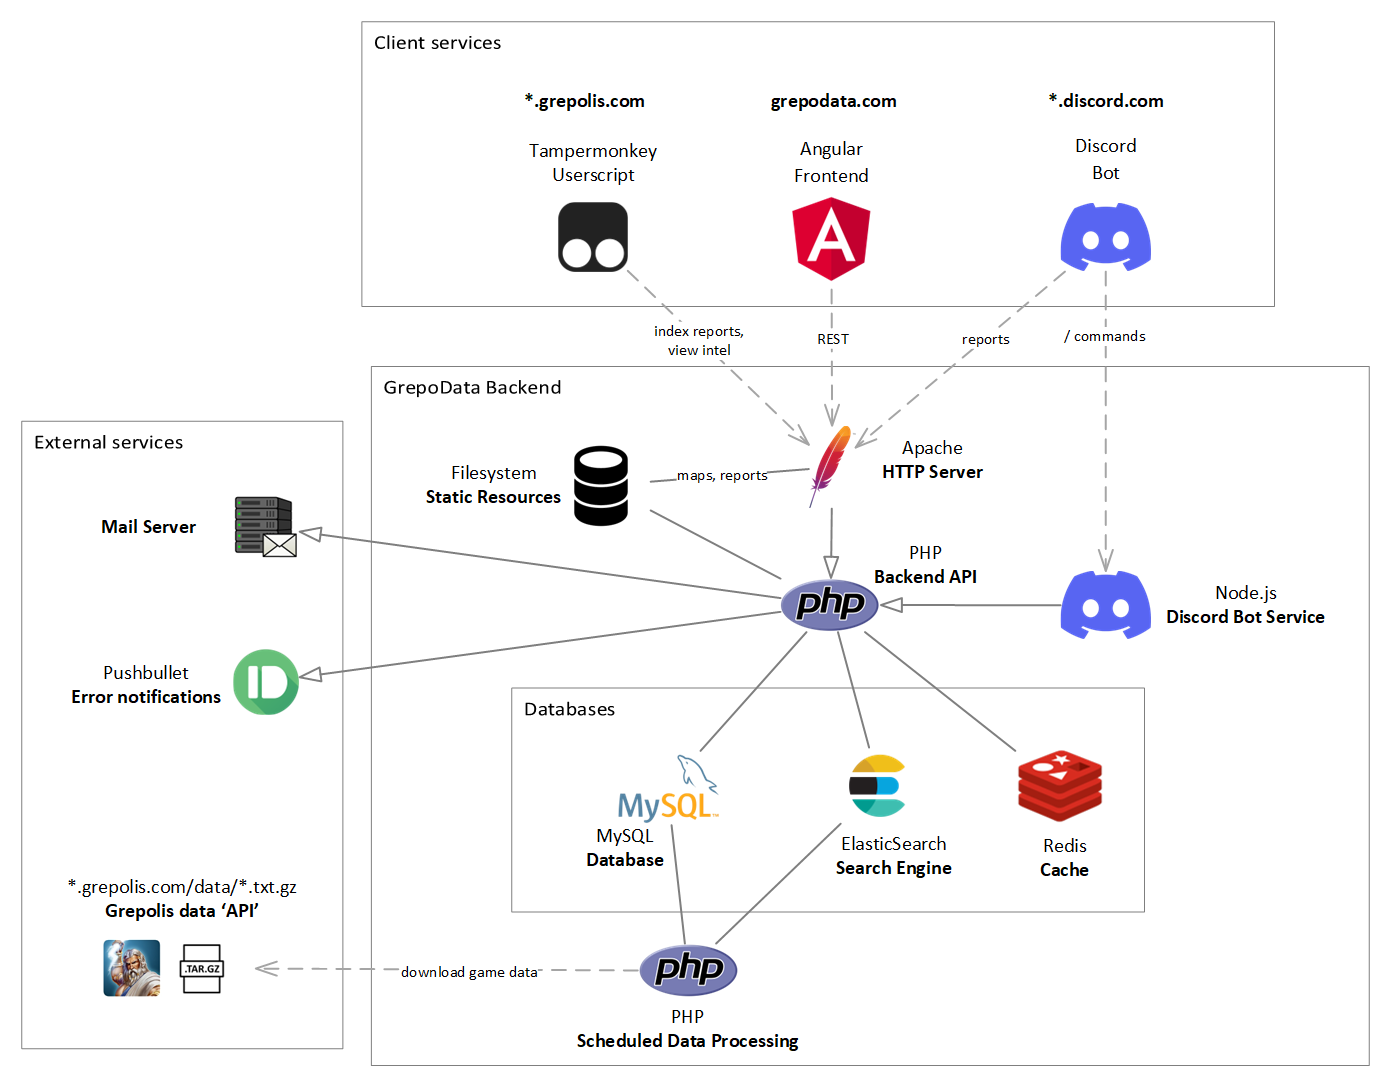
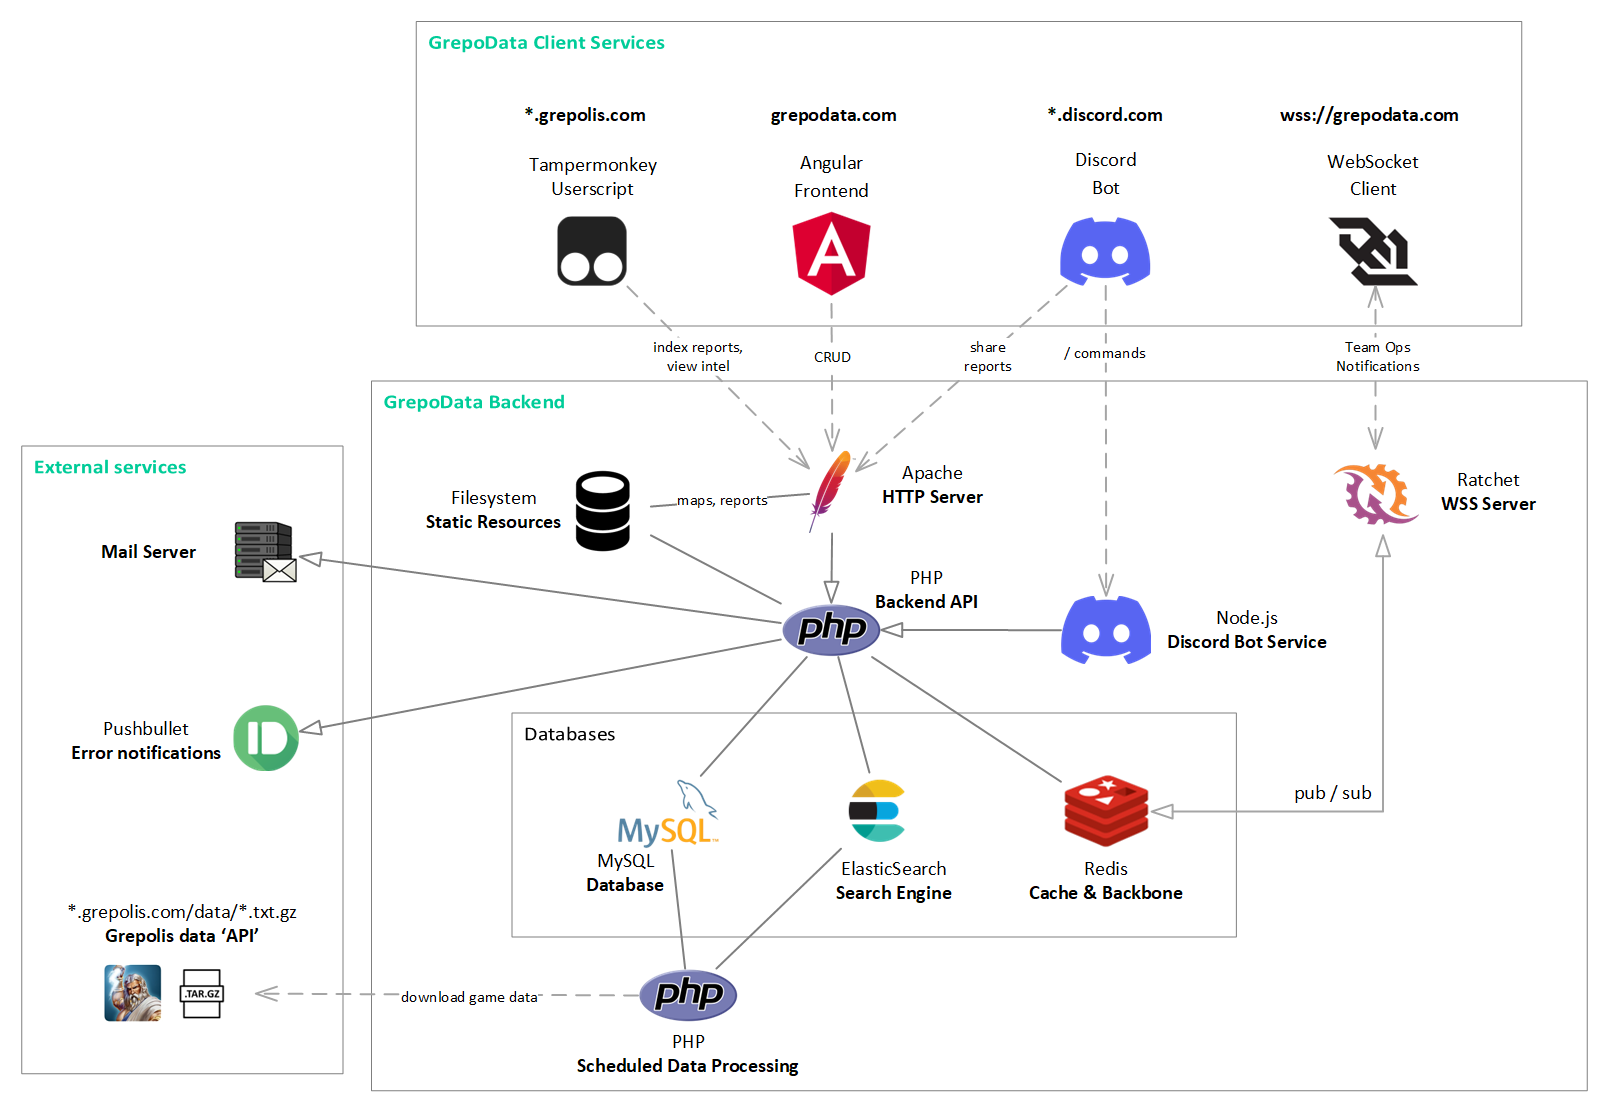
updated blog

diff --git a/src/app/blog/blog.component.html b/src/app/blog/blog.component.html
@@ -7,14 +7,13 @@
           <h4 (click)="scroll(Introduction)">Introduction</h4>
           <h4 (click)="scroll(Overview)">Overview</h4>
           <h4 (click)="scroll(Clients)">Client Services</h4>
-            <h5 (click)="scroll(Frontend)">Angular Frontend</h5>
-              <h6 (click)="scroll(AuthFront)">Authentication</h6>
-            <h5 (click)="scroll(Discord)">Discord Bot</h5>
+            <h5 (click)="scroll(Frontend)">Frontend</h5>
             <h5 (click)="scroll(Userscript)">Userscript</h5>
-              <h6 (click)="scroll(Authenticate)">Authentication</h6>
+            <h5 (click)="scroll(Websocket)">WebSocket</h5>
+            <h5 (click)="scroll(Discord)">Discord Bot</h5>
             <h5 (click)="scroll(api)">Indexer API</h5>
           <h4 (click)="scroll(Data)">Data Processing</h4>
-            <h5 (click)="scroll(GameData)">Grepolis Game Data</h5>
+            <h5 (click)="scroll(GameData)">Game Data</h5>
             <h5 (click)="scroll(InternalData)">Internal Data</h5>
           <h4 (click)="scroll(Databases)">Databases</h4>
             <h5 (click)="scroll(MySQL)">MySQL</h5>
@@ -24,54 +23,49 @@
       </div>
       <div class="col-md-12 col-lg-8 text-center">
         <br/>
-        <h1>Blog: GrepoData Architecture</h1><br/>
-        <h6 class="gd-primary">September 2021 by Camiel Kerkhofs</h6>
+        <h1>GrepoData Architecture</h1><br/>
+        <h6 class="gd-primary">By Camiel Kerkhofs</h6>
 
         <h4 #Introduction style="text-align: left;">Introduction</h4>
-        <h5 align="justify">Since the new indexer version went live in April, we received some questions about how our website works, specifically in regards to authentication.
-          For the sake of transparency and to answer these questions we wrote this blogpost to discuss some of the architecture choices we made.
-          In terms of compute, we are currently running all of this on a single VM with 4 vCPU's and 8 GB RAM.
+        <h5 align="justify">After we released the new indexer version, we received many questions about how our website works, with a particular focus on authentication and privacy.
+          In the spirit of transparency and to address these questions, we wrote this blog to explain the architectural decisions guiding our platform.
+          Currently, our stack operates on a single virtual machine with only 4 vCPUs and 8 GB RAM. We implemented many optimizations to be able to handle the computational demands of our dynamic user base exceeding 20,000 unique users monthly.
         </h5>
 
         <br/>
+        <hr>
         <h4 #Overview style="text-align: left">Architecture Overview</h4>
         <h5 align="justify">
-          Below is an overview of the complete GrepoData architecture. We serve 3 client services. The in-game userscript and the Angular frontend both communicate with our PHP backend. The Discord bot requires a dedicated bot service that runs 24/7.
-          We use a MySQL database for our relational data, an Elasticsearch node to enable our search functionality and a Redis in-memory cache to reduce database load for heavy queries.
-          In the rest of this blog we will explain how we use each of these tools to deliver GrepoData to our 20.000 unique monthly users.
+          Below is an overview of the complete GrepoData architecture. We serve 4 client services. The in-game userscript and the Angular frontend both communicate with our PHP REST API.
+          Both our WebSocket server and the Discord bot require a dedicated backend service.
+          We use a MySQL database for our relational data, an Elasticsearch node to enable our search functionality and a Redis instance as a cache and pub/sub communication backbone.
         </h5>
 
         <div class="">
           <img style="max-width: 100%; margin: auto;" src="assets/images/architecture.png">
         </div>
 
-        <h4 #Clients style="text-align: left">Client Services</h4>
+        <br/>
+        <br/>
+        <h4 #Clients style="text-align: left">Client Services & Authentication</h4>
         <h5 align="justify">
 
         </h5>
 
-
-        <br/>
-        <h5 #Frontend class="subtitle" style="text-align: left">Angular Frontend</h5>
+        <hr>
+        <h5 #Frontend class="subtitle" style="text-align: left">Angular Frontend <a class="source-link" href="https://github.com/GrepoDataTools/grepodata-frontend" target="_blank">(View Source)</a></h5>
         <h5 align="justify">
           The frontend being served at https://grepodata.com is an Angular 11 application. Angular provides us with a modular architecture, two-way data binding, dependency injection, improved performance, and cross-platform development capabilities.
           There are still some big items that we would like to add to our Angular app such as internationalisation and lazy loading to improve the speed of our application but unfortunately that would require a rewrite of a large part of the frontend code.
         </h5>
-        <h6 #AuthFront class="subtitle" style="text-align: left">Authentication</h6>
+        <h6 #AuthFront class="subtitle" style="text-align: left">Frontend Authentication</h6>
         <h5 align="justify">
           The GrepoData indexer tool is protected by a user sign in. Anybody is free to create an account. We use a JSON Web Tokens (JWT) for authentication. JWT is an open standard (RFC 7519) that defines a compact and self-contained way for securely transmitting information between parties as a JSON object. This information can be verified and trusted because it is digitally signed.
           Our JWTs are signed by the GrepoData backend using a secret. All sensitive user data such as the password is stored using industry best practices. We never store such data as plain text.
         </h5>
-        <br/>
-        <h5 #Discord class="subtitle" style="text-align: left">Discord Bot</h5>
-        <h5 align="justify">
-          The Discord bot is a bot service that users can add to their Discord servers. We wrote the bot using the popular discord.js library. Currently our bot is serving in 3000 Discord servers with a total of over 50.000 users.
-          This is challenge because if your bot is in more than 2500 servers, the server side client needs to be sharded.
-          We are currently using the discord.js <a href="https://discordjs.guide/sharding/#how-does-sharding-work" target="_blank">ShardingManager</a> to run multiple shards on the same machine.
-          A list of available commands can be found here: <a href="https://grepodata.com/discord" target="_blank">grepodata.com/discord</a>.
-        </h5>
 
         <br/>
+        <hr>
         <h5 #Userscript class="subtitle" style="text-align: left">In-Game Userscript <a class="source-link" href="https://github.com/GrepoDataTools/grepodata-backend/tree/master/Software/Application/Indexer" target="_blank">(View Source)</a></h5>
         <h5 align="justify">
           The userscript itself is only used as an injection trigger. Whenever the user loads the game, the userscript will be triggered due to the matching url (*.grepolis.com). The only task of the Userscript is then to inject a .js and .css file that contain the code to run the in-game functionality of our City Indexer tool.
@@ -82,6 +76,8 @@
             <li><strong>Browsing Intel:</strong> Users can browse town intel and notes for each town by doing a GET request to our backend.</li>
             <li><strong>Adding Notes:</strong> Notes can be added via a POST request to the backend.</li>
             <li><strong>Forum Reactions:</strong> Users can react to forum posts and see the reactions of teammates.</li>
+            <li><strong>Sharing Commands:</strong> Users can share their command overview and attack planner with their teammates.</li>
+            <li><strong>Push Notifications:</strong> Users are notified when their teammates share commands.</li>
           </ul>
         </h5>
 
@@ -112,14 +108,57 @@
         <br/>
         <br/>
 
+        <br/>
+        <hr>
+
+        <h5 #Websocket class="subtitle" style="text-align: left">WebSocket <a class="source-link" href="https://github.com/GrepoDataTools/grepodata-websocket" target="_blank">(View Source)</a></h5>
+        <h5 align="justify">
+          The GrepoData WSS service allows us to communicate in real-time with our connected clients.
+          Under normal conditions, our WSS service has between 1000 and 2000 concurrent connections.
+          The connection with the WSS server is managed by the GrepoData in-game userscript.
+          When a message is published via the Redis backbone, the WSS server will push the message to the respective clients.
+        </h5>
+        <h6 #AuthWSS class="subtitle" style="text-align: left">WebSocket Authentication Flow</h6>
+        <h5 align="justify">
+          Each new client connection must first be authenticated before we can subscribe the connection to the correct user/team topics.
+          The authentication flow is as follows:
+          <ul>
+            <li><strong>(1):</strong> If an authenticated user opens the game, the userscript will retrieve a <i>websocket_token</i> from our backend. This token is stored in Redis and is linked to the current user and client.</li>
+            <li><strong>(2):</strong> The userscript will then attempt to connect to the WSS server available at <i>wss://grepodata.com:8443</i>.</li>
+            <li><strong>(3):</strong> Once the connection is established, the userscript will send the <i>websocket_token</i> from step 1.</li>
+            <li><strong>(4):</strong> The WSS server receives the <i>websocket_token</i> and checks it validity against the token stored in Redis in step 1.</li>
+            <li><strong>(5):</strong> If the token was valid, the connection is subscribed to the user and team topics as identified via Redis. If the token is not valid, the connection is closed.</li>
+            <li><strong>(6):</strong> We use a hashmap to store connection subscriptions. If a message is received for team X, it is propagated to all connections that subscribed to team X</li>
+          </ul>
+        </h5>
+
+        <div class="">
+          <img style="max-width: 100%; margin: auto;" src="assets/images/wss_auth.png">
+        </div>
+
+        <br/>
+        <hr>
+        <h5 #Discord class="subtitle" style="text-align: left">Discord Bot <a class="source-link" href="https://github.com/GrepoDataTools/grepodata-discord" target="_blank">(View Source)</a></h5>
+        <h5 align="justify">
+          The Discord bot is a bot service that users can add to their Discord servers. We wrote the bot using the popular discord.js library. Currently our bot is serving in 3000 Discord servers with a total of over 50.000 users.
+          This is challenge because if your bot is in more than 2500 servers, the server side client needs to be sharded.
+          We are currently using the discord.js <a href="https://discordjs.guide/sharding/#how-does-sharding-work" target="_blank">ShardingManager</a> to run multiple shards on the same machine.
+          A list of available commands can be found here: <a href="https://grepodata.com/discord" target="_blank">grepodata.com/discord</a>.
+          Our Discord Bot only serves public data and therefore does not require authentication.
+        </h5>
+
+        <br/>
+        <hr>
         <h5 #api class="subtitle" style="text-align: left">GrepoData Indexer API</h5>
         <h5 align="justify">
-          The public GrepoData API provides programmatic access to intel collected by the authenticated user. We also provide authentication endpoints.
-          Advanced users can retrieve intel for towns, players or alliances. Our authentication service ensures that users can only retrieve intel that was collected by themselces or their teammates.
+          The GrepoData Indexer API provides programmatic access to intel collected by the authenticated user. We also provide authentication endpoints.
+          Advanced users can retrieve intel for towns, players or alliances. Our authentication service ensures that users can only retrieve intel that was collected by themselves or their teammates.
           <br/>The API documentation is available here (account required): <a href="https://grepodata.com/profile/api" target="_blank">grepodata.com/profile/api</a>
         </h5>
         <br/>
 
+        <br/>
+        <hr>
         <h4 #Data style="text-align: left">Scheduled Data Processing</h4>
         <h5 align="justify">
           In total, we use 20 data processing jobs written in PHP. Each job is on a custom cron schedule. We differentiate between jobs that sync game data and jobs that clean/process our internal data.
@@ -158,22 +197,30 @@
         <br/>
         <br/>
         <h4 #Databases style="text-align: left">Databases</h4>
+        <hr>
         <h5 #MySQL class="subtitle" style="text-align: left">MySQL</h5>
         <h5 align="justify">
           MySQL is used to store most of our data. Due to the large amount of lookup queries, we make sure to add indexes wherever required. In order to limit the number of inserts, we only update/create records if their values have changed. This also allows our scheduled data processing jobs to be much more efficient. To achieve this, we simply keep a local copy of the game data in csv format. When new data is pulled, we first compare it against the previous data dump, and only persist records to the database if there has been a change.
         </h5>
         <br/>
+        <hr>
         <h5 #Elasticsearch class="subtitle" style="text-align: left">Elasticsearch</h5>
         <h5 align="justify">
           Elasticsearch is a search engine based on Lucene. GrepoData uses Elasticsearch to index player and alliance names. This allows us to query half a million names within milliseconds. We use the fuzzy matching algorithm to return results even when the user makes a spelling mistake. The aggregation feature also comes in handy to allow the user to filter based on country and server. A custom scoring function was created to promote results that are on the same game server as the user.
           <br/>We also use our Elasticsearch node to host the attack & defend diffs. Whenever a player gains an attack or defend point, we store this event as a 'diff'. We use the powerful aggregation features of Elasticsearch to quickly aggregate millions of diffs to render the diffs shown on our daily scoreboard.
         </h5>
         <br/>
+        <hr>
         <h5 #Redis class="subtitle" style="text-align: left">Redis</h5>
         <h5 align="justify">
-          Redis is an in-memory key-value store. We monitor our SQL database for heavy queries and if their functionality allows for cached responses then we will use Redis to store the results of a query for a limited time.
-          Mostly we use this approach for requests related to our city indexer where we have some larger queries that aggregate user intel. For example, we cache the alliance and player intelligence pages for 5 minutes. Changes to the underlying data are infrequent and of little consequence while these queries may sometimes take 5 to 10 seconds if the user has collected a lot of intelligence.
-          In addition to being used as a cache, we also use Redis to implement our rate limiter. The PHP backend tracks rate limited resources using Redis. If the rate limit is exceeded, our service can respond appropriately.
+          Redis is an in-memory key-value store. We use a Redis instance to support 3 key backend functionalities:
+          <ul>
+            <li>We monitor our SQL database for heavy queries and if their functionality allows for <strong>cached responses</strong> then we will use Redis to store the results of a query for a limited time.
+              Mostly we use this approach for requests related to our city indexer where we have some larger queries that aggregate user intel. For example, we cache the alliance and player intelligence pages for 5 minutes. Changes to the underlying data are infrequent and of little consequence while these queries may sometimes take 5 to 10 seconds if the user has collected a lot of intelligence.</li>
+            <li>In addition to being used as a cache, we also use Redis to implement our <strong>rate limiter</strong>. The PHP backend tracks rate limited resources using Redis. If the rate limit is exceeded, our service can respond appropriately.</li>
+            <li>Finally, we also use Redis <strong>pub/sub</strong> topics as a backbone communication channel. This allows our PHP backend to communicate in real-time with our Ratchet WSS server.</li>
+          </ul>
+
         </h5>
         <br/>
 

diff --git a/src/app/homepage/homepage.component.html b/src/app/homepage/homepage.component.html
@@ -267,6 +267,7 @@
 <div class="footer text-center">
   <div class="container">
     <div class="row">
+
       <div class="col-xs-12 col-sm-12 col-md-8 col-lg-8 disclaimer">
         <!--<strong>Copyright notices: </strong>&nbsp;-->
         Grepolis is a browser game by InnoGames GmbH. This is an unofficial 3rd party site
@@ -282,6 +283,14 @@
         &nbsp; | &nbsp;
         <a class="a-link-dialog" routerLink="/analytics">Statistics</a>
       </div>
+
+      <br/>
+      <br/>
+      <br/>
+      <br/>
+
+      powered by <a class="a-link" href="https://camiel.dev" target="_blank">camiel.dev</a>
+      <br/>
     </div>
   </div>
 </div>
